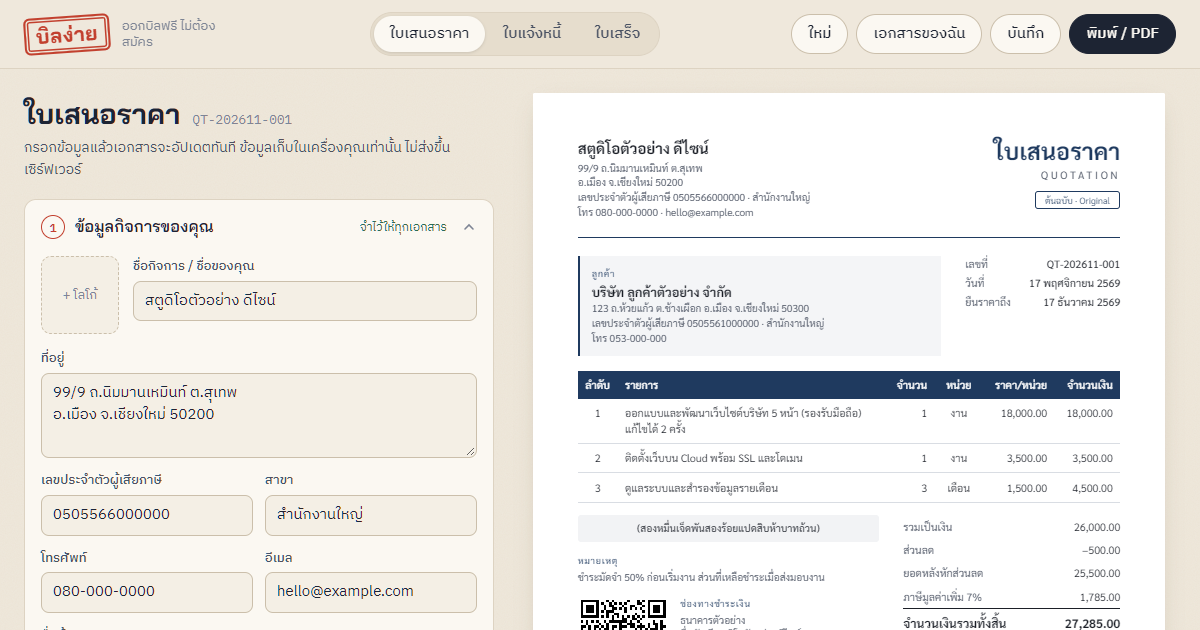
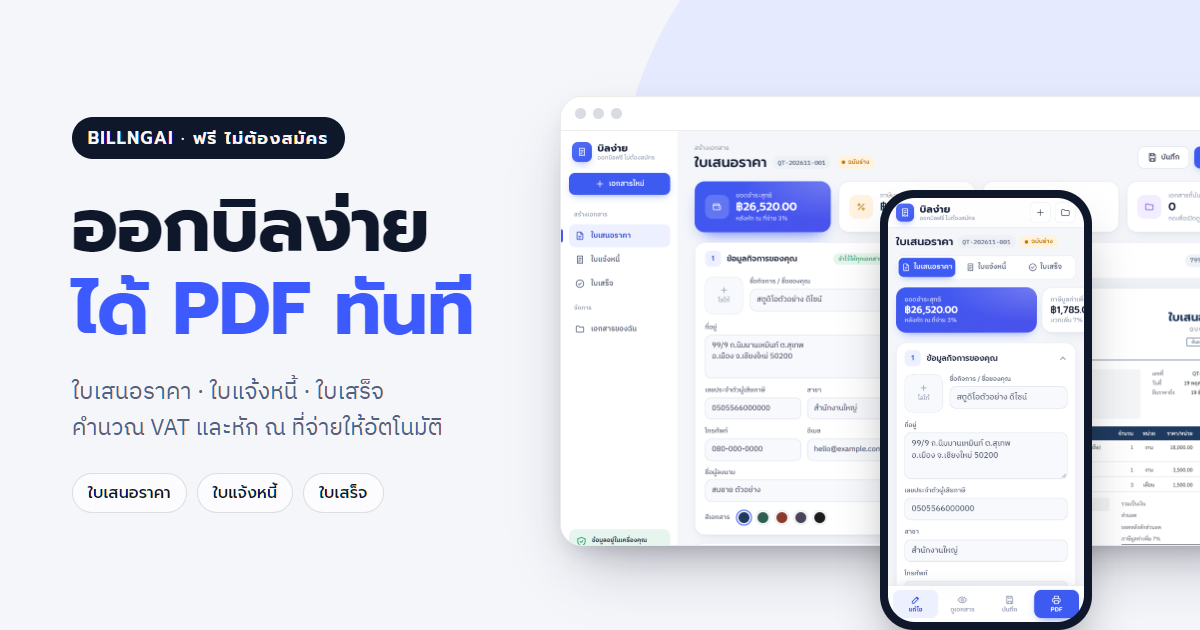
docs: new og image and demo GIF for refreshed UI

diff --git a/README.md b/README.md
@@ -3,6 +3,8 @@
 เว็บแอปทำ **ใบเสนอราคา ใบแจ้งหนี้ ใบเสร็จรับเงิน** ภาษาไทย ฟรี ไม่ต้องสมัคร
 สำหรับฟรีแลนซ์และร้านค้าเล็ก ๆ ที่อยากได้เอกสารดูเป็นมืออาชีพภายในไม่กี่นาที
 
+![ตัวอย่างการใช้งานบิลง่าย](docs/demo.gif)
+
 ![หน้าจอบิลง่าย](docs/screenshot.png)
 
 **ใช้งานจริง: https://shswsy.github.io/billngai/** · ดูตัวอย่าง: https://shswsy.github.io/billngai/?demo
